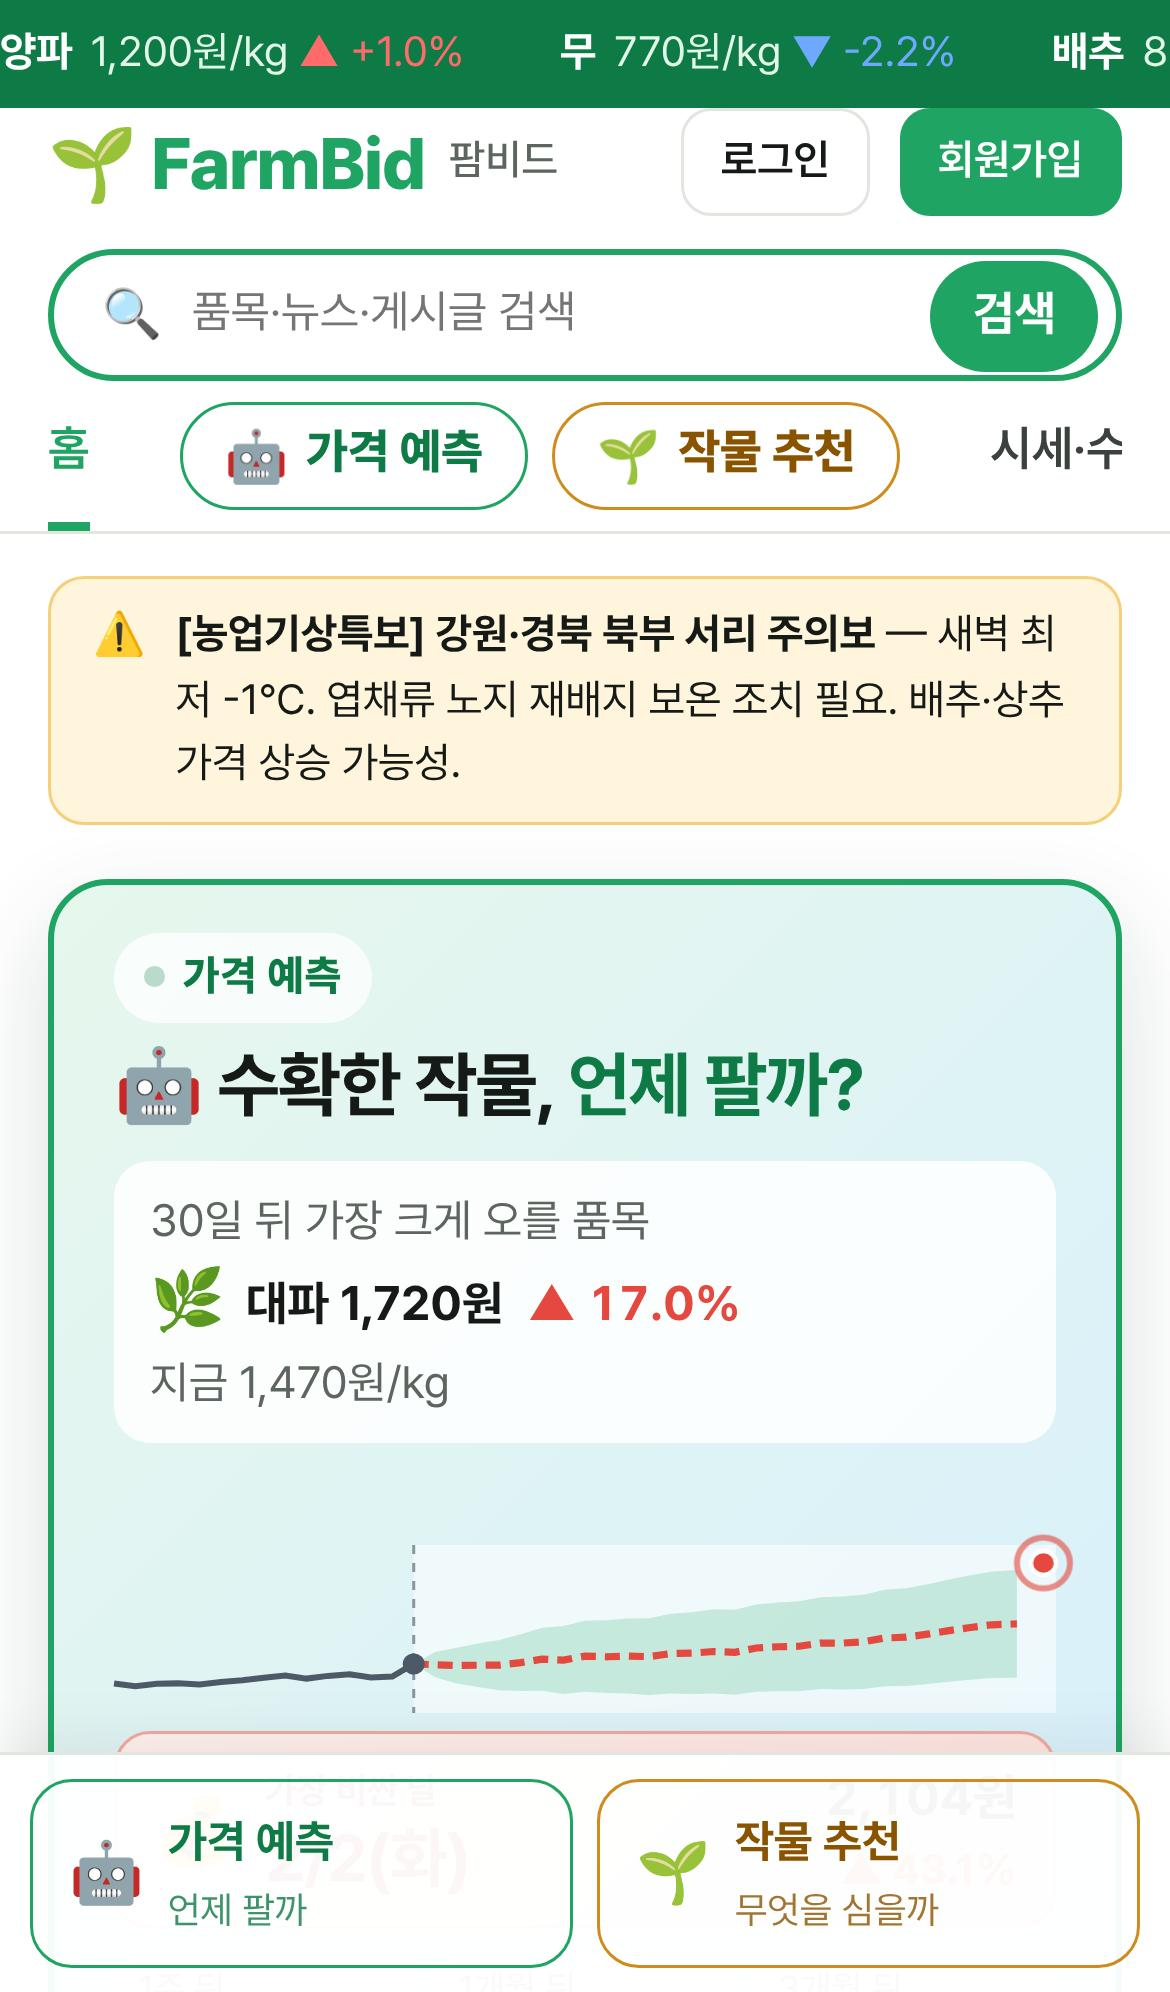
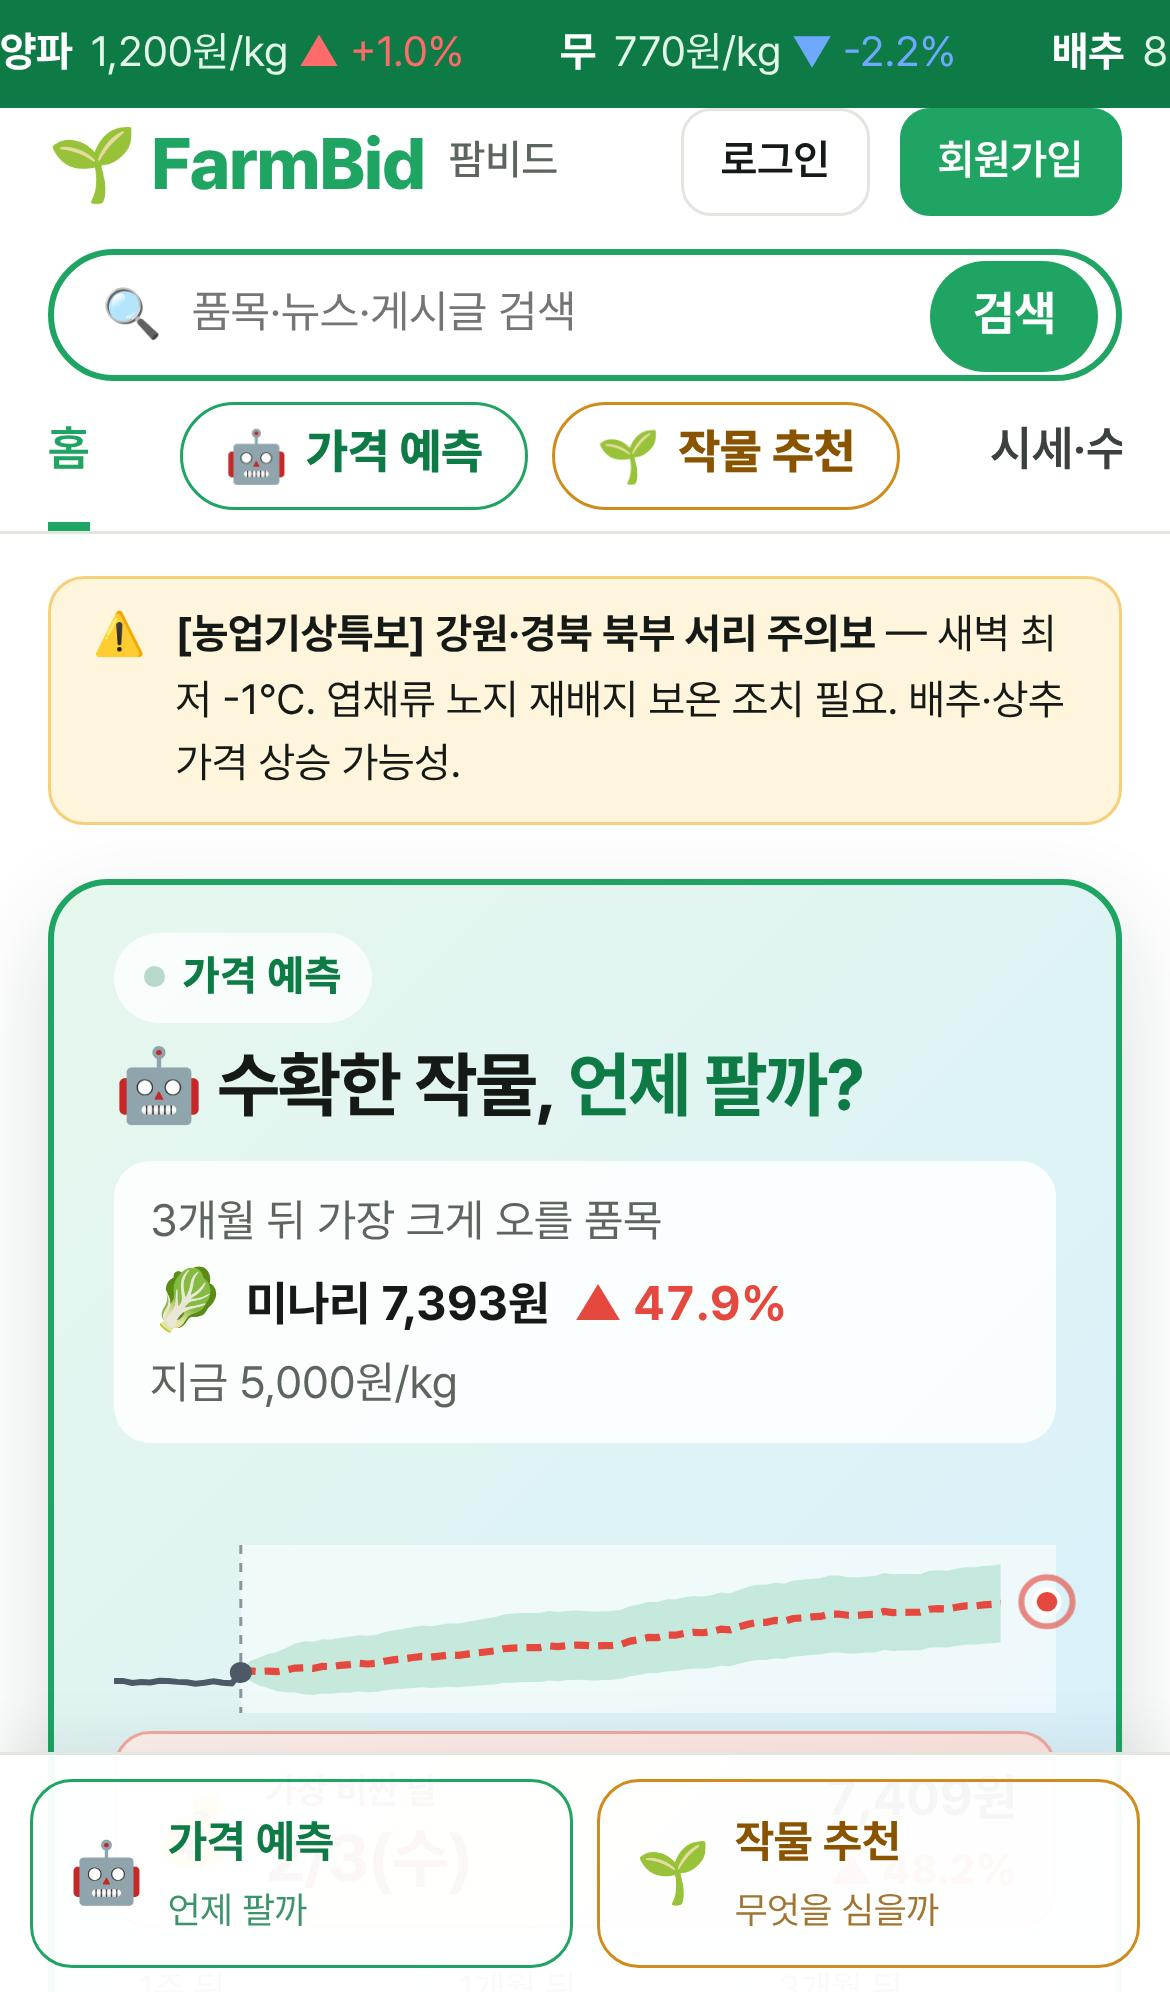
fix: 홈 가격 예측 카드를 3개월 기준으로 (가장 비싼 날 점이 그래프 선에서 벗어나던 문제)
- 카드 품목: 30일 뒤 → 3개월 뒤 가장 크게 오를 품목 (정확도 낮은 품목·참고용 제외)
- 작은 예측 그래프: 30일 → 3개월. 가장 비싼 날을 찾는 기간과 같아져서 빨간 점이 예측선 위에 찍힘
- docs/05_ui_spec.md·홈 캡처 갱신, 변경 이력 기록

Claude-Session: https://claude.ai/code/session_01A5Bz2YFgwDEj3wEsMnATng

Changed region(s): [[0.1846, 0.7781, 0.9231, 0.8715], [0.1231, 0.5914, 0.6769, 0.7159], [0.0923, 0.8404, 0.1231, 0.8715]]

diff --git a/frontend/src/pages/HomeDashboard.jsx b/frontend/src/pages/HomeDashboard.jsx
@@ -2,7 +2,7 @@
 // 색: 오르면 빨강(.up), 내리면 파랑(.down). 가격 = 전국 도매시장 · 상 등급 · 원/kg
 import { useState } from "react";
 import { Link } from "react-router-dom";
-import { predict, recommendCrops } from "../api/ml";
+import { getTopMovers, predict, recommendCrops } from "../api/ml";
 import { getMarketIndex, getPriceHistory } from "../api/market";
 import { useAuth } from "../components/AuthContext";
 import CandleChart from "../components/CandleChart";
@@ -47,9 +47,10 @@ function MiniForecast({ p, days = 30, height = 96, best }) {
 }
 
 /** 맨 위: 가격 예측 · 작물 추천 */
-export function CoreFeatures({ movers, items }) {
-  // 30일 뒤 가장 크게 오를 품목 (정확도가 낮거나 참고용인 품목은 빼고)
-  const pick = movers?.filter((m) => !LOW_ACCURACY.has(m.item) && !m.reference).sort((a, b) => b.change_pct - a.change_pct)[0];
+export function CoreFeatures({ items }) {
+  // 3개월 뒤 가장 크게 오를 품목 (정확도가 낮거나 참고용인 품목은 빼고). 그래프·가장 비싼 날도 같은 3개월
+  const movers90 = useAsync(() => getTopMovers({ horizon: 90, limit: 50 }));
+  const pick = movers90.data?.filter((m) => !LOW_ACCURACY.has(m.item) && !m.reference).sort((a, b) => b.change_pct - a.change_pct)[0];
   const pred = useAsync(() => (pick ? predict({ item: pick.item, horizon: 90 }) : Promise.resolve(null)), [pick?.item]);
   const rec = useAsync(() => recommendCrops(formRequest(DEFAULT_FORM, todayIso())));
   const p = pred.data;
@@ -65,7 +66,7 @@ export function CoreFeatures({ movers, items }) {
           <h2>🤖 수확한 작물, <em>언제 팔까?</em></h2>
           {pick ? (
             <div className="cf-live">
-              <span className="muted small">30일 뒤 가장 크게 오를 품목</span>
+              <span className="muted small">3개월 뒤 가장 크게 오를 품목</span>
               <b><ItemImage code={pick.item} emoji={items?.find((i) => i.code === pick.item)?.emoji} className="xs" /> {pick.item_name} {won(pick.predicted_price)}원 <PctChange value={pick.change_pct} /></b>
               <span className="muted small">지금 {p ? wonPerKg(p.base_price) : "…"}</span>
             </div>
@@ -74,7 +75,7 @@ export function CoreFeatures({ movers, items }) {
         {p && (
           <div className="cf-side">
             <div className="mini-fc-wrap">
-              <MiniForecast p={p} height={56} best={best} />
+              <MiniForecast p={p} days={90} height={56} best={best} />
             </div>
             <div className="cf-best">
               <span className="ic" aria-hidden>💰</span>

diff --git a/docs/05_ui_spec.md b/docs/05_ui_spec.md
@@ -62,7 +62,7 @@
 | # | 구역 | 보여 주는 것 | 누르면 | API |
 |---|---|---|---|---|
 | 1 | 공지 배너 | 홈에 띄우기로 한 공지 (예: 서리 주의보) | - | 2장 공지 |
-| 2 | **가격 예측 카드** (초록, 진한 테두리·그림자로 강조) | "수확한 작물, 언제 팔까?" · 30일 뒤 가장 크게 오를 품목(정확도 낮은 품목 제외)의 예상가·등락률·지금 가격 · 작은 그래프(지난 2주 + AI 30일, 예측선이 왼쪽→오른쪽으로 그려지는 움직임, 가장 비싼 날 빨간 점) · **💰 가장 비싼 날** 빨간 상자(날짜·그날 예상가·오늘 대비 %) · 1주/1개월/3개월 뒤 등락률 | 가격 예측 화면 | 1-4, 1-5 |
+| 2 | **가격 예측 카드** (초록, 진한 테두리·그림자로 강조) | "수확한 작물, 언제 팔까?" · **3개월 뒤** 가장 크게 오를 품목(정확도 낮은 품목·참고용 제외)의 3개월 뒤 예상가·등락률·지금 가격 · 작은 그래프(지난 2주 + AI 3개월, 예측선이 왼쪽→오른쪽으로 그려지는 움직임, 가장 비싼 날 빨간 점 — 그래프와 같은 3개월 안에서 찾아 점이 예측선 위에 찍힘) · **💰 가장 비싼 날** 빨간 상자(날짜·그날 예상가·오늘 대비 %) · 1주/1개월/3개월 뒤 등락률 | 가격 예측 화면 | 1-4, 1-5 |
 | 3 | **작물 추천 카드** (주황, 진한 테두리·그림자로 강조) | "내 땅에는 무엇을 심을까?" · 예시 땅(경기 · 노지 1,200평 + 시설 600평) 순이익 1~3위 작물과 막대(차례로 자람, 1위 👑) | 작물 추천 화면 | 1-6 |
 | 4 | **지수 카드 8개** | 전체 + 7묶음(잎채소 · 양채·나물 · 열매채소 · 양념채소 · 뿌리·곡물 · 과일 · 버섯) · 어제보다 등락률(큰 숫자) · 30거래일 흐름 그래프 + AI 30일 점선 · "AI 30일 뒤 ▲ n% 상승" | 시세 화면 | 2-16, 1-5 |
 | 5 | **품목 차트** | 품목 이름·오늘 가격·어제보다 · 기간(1주/1개월/3개월/1년) · 캔들 차트(오르면 빨강, 내리면 파랑) + AI 30일 예측 띠 · AI 30일 뒤 예상가 · [언제 팔지 보기] | 가격 예측 화면 | 2-15 history, 1-4 |
@@ -252,3 +252,4 @@ API 2-8 ~ 2-11
 |---|---|---|
 | 2026-11-06 | 최초 작성 — 지금 화면 기준(50품목 · 품종, 대시보드 주식 앱 형태, 가격 예측 검색 조건, 작물 추천 품종 묶기, 시세 품종, 설명 글씨 정리 반영). 화면 캡처 `docs/ui/` | |
 | 2026-11-06 | 강사님 피드백 반영 — 위·양옆 여백 축소(본문 폭 1600px), 페이지 제목 한 줄, 가격 예측 검색 두 줄·최근 검색 삭제, 홈 두 카드 강조·움직임·💰 가장 비싼 날 상자. 캡처 교체 | |
+| 2026-11-06 | 홈 가격 예측 카드: 품목을 3개월 뒤 가장 크게 오를 품목으로, 작은 그래프를 3개월로 (가장 비싼 날 점이 선에서 벗어나던 문제 수정) | |
